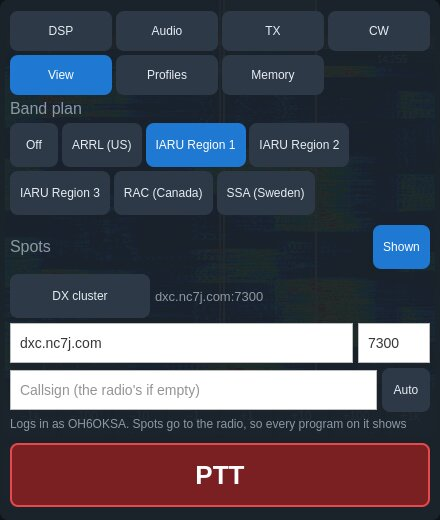
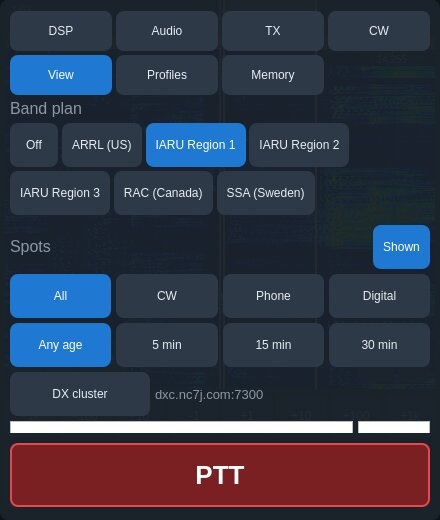
mobile: spot filters by mode and age
View > Spots: All, CW, Phone or Digital (the spot's mode, else its comment
or the band plan, through the desktop's SpotModeResolver), and any age or
the last 5, 15 or 30 minutes (the display refreshes as spots age out).
Checked on the FLEX with test spots among the cluster's: CW showed only
the "CW 599" spot, Phone the phone segment's calls. Dev option
--spot-filter modes,age.

Claude-Session: https://claude.ai/code/session_01KANojkzU64KoozGDbNDzRK

Changed region(s): [[0.0, 0.5231, 0.975, 0.8308]]

diff --git a/mobile/qml/DisplayControls.qml b/mobile/qml/DisplayControls.qml
@@ -45,6 +45,38 @@ ColumnLayout {
             onClicked: Engine.showSpots = !Engine.showSpots
         }
     }
+    // Which spots show: by mode and age.
+    RowLayout {
+        Layout.fillWidth: true
+        visible: Engine.showSpots
+        Repeater {
+            model: [{ key: "all", label: qsTr("All") }, { key: "cw", label: qsTr("CW") },
+                    { key: "phone", label: qsTr("Phone") }, { key: "digital", label: qsTr("Digital") }]
+            delegate: AppButton {
+                required property var modelData
+                text: modelData.label
+                checked: Engine.spotModes === modelData.key
+                Layout.fillWidth: true
+                Layout.preferredWidth: 1
+                onClicked: Engine.spotModes = modelData.key
+            }
+        }
+    }
+    RowLayout {
+        Layout.fillWidth: true
+        visible: Engine.showSpots
+        Repeater {
+            model: [0, 5, 15, 30]
+            delegate: AppButton {
+                required property int modelData
+                text: modelData === 0 ? qsTr("Any age") : qsTr("%1 min").arg(modelData)
+                checked: Engine.spotMaxAgeMin === modelData
+                Layout.fillWidth: true
+                Layout.preferredWidth: 1
+                onClicked: Engine.spotMaxAgeMin = modelData
+            }
+        }
+    }
     RowLayout {
         Layout.fillWidth: true
         AppButton {

diff --git a/mobile/src/MobileEngine.cpp b/mobile/src/MobileEngine.cpp
@@ -3227,6 +3227,14 @@ void MobileEngine::setupDxCluster()
     m_spotsNotifyTimer.setSingleShot(true);
     m_spotsNotifyTimer.setInterval(500);
     connect(&m_spotsNotifyTimer, &QTimer::timeout, this, &MobileEngine::spotsChanged);
+    // With an age limit, spots leave the display as they age.
+    m_spotsAgeTimer.setInterval(30000);
+    connect(&m_spotsAgeTimer, &QTimer::timeout, this, [this] {
+        if (spotMaxAgeMin() > 0 && showSpots()) {
+            emit spotsChanged();
+        }
+    });
+    m_spotsAgeTimer.start();
     SpotModel& spots = m_session.radioModel().spotModel();
     auto spotsMoved = [this] {
         if (!m_spotsNotifyTimer.isActive()) {
@@ -3287,7 +3295,24 @@ QVariantList MobileEngine::spots() const
     if (!m_connected || !showSpots()) {
         return out;
     }
+    const QString modes = spotModes();
+    const qint64 maxAgeMs = qint64(spotMaxAgeMin()) * 60 * 1000;
+    const qint64 now = QDateTime::currentMSecsSinceEpoch();
     for (const SpotData& s : m_session.radioModel().spotModel().spots()) {
+        if (maxAgeMs > 0 && s.addedMs > 0 && now - s.addedMs > maxAgeMs) {
+            continue;
+        }
+        if (modes != QLatin1String("all")) {
+            const QString mode = SpotModeResolver::resolveSpotRadioMode(s.mode, s.comment, s.rxFreqMhz);
+            const bool cw = mode.startsWith(QLatin1String("CW"));
+            const bool digital = mode.startsWith(QLatin1String("DIG")) || mode == QLatin1String("RTTY")
+                || mode == QLatin1String("FDV");
+            const bool phone = !mode.isEmpty() && !cw && !digital;
+            if ((modes == QLatin1String("cw") && !cw) || (modes == QLatin1String("digital") && !digital)
+                || (modes == QLatin1String("phone") && !phone)) {
+                continue;
+            }
+        }
         out << QVariantMap{{QStringLiteral("index"), s.index}, {QStringLiteral("call"), s.callsign},
                            {QStringLiteral("freq"), s.rxFreqMhz}, {QStringLiteral("mode"), s.mode},
                            {QStringLiteral("comment"), s.comment}, {QStringLiteral("spotter"), s.spotterCallsign},
@@ -3306,6 +3331,37 @@ void MobileEngine::setShowSpots(bool on)
 {
     if (on != showSpots()) {
         AppSettings::instance().setValue(QStringLiteral("MobileShowSpots"), on ? QStringLiteral("True") : QStringLiteral("False"));
+        AppSettings::instance().save();
+        emit spotsChanged();
+    }
+}
+
+QString MobileEngine::spotModes() const
+{
+    const QString m = AppSettings::instance().value(QStringLiteral("MobileSpotModes"), QStringLiteral("all")).toString();
+    return (m == QLatin1String("cw") || m == QLatin1String("phone") || m == QLatin1String("digital")) ? m
+                                                                                                      : QStringLiteral("all");
+}
+
+void MobileEngine::setSpotModes(const QString& modes)
+{
+    if (modes != spotModes()) {
+        AppSettings::instance().setValue(QStringLiteral("MobileSpotModes"), modes);
+        AppSettings::instance().save();
+        emit spotsChanged();
+    }
+}
+
+int MobileEngine::spotMaxAgeMin() const
+{
+    return std::clamp(AppSettings::instance().value(QStringLiteral("MobileSpotMaxAgeMin"), 0).toInt(), 0, 240);
+}
+
+void MobileEngine::setSpotMaxAgeMin(int minutes)
+{
+    minutes = std::clamp(minutes, 0, 240);
+    if (minutes != spotMaxAgeMin()) {
+        AppSettings::instance().setValue(QStringLiteral("MobileSpotMaxAgeMin"), minutes);
         AppSettings::instance().save();
         emit spotsChanged();
     }

diff --git a/mobile/src/MobileEngine.h b/mobile/src/MobileEngine.h
@@ -154,6 +154,11 @@ class MobileEngine : public QObject {
     // color, source}; empty while showSpots is off.
     Q_PROPERTY(QVariantList spots READ spots NOTIFY spotsChanged)
     Q_PROPERTY(bool showSpots READ showSpots WRITE setShowSpots NOTIFY spotsChanged)
+    // Spot filters (remembered): modes "all", "cw", "phone" or "digital"
+    // (the spot's mode, else its comment or the band plan, as the desktop
+    // resolves it) and the newest only, 0 (any) or 5/15/30 minutes.
+    Q_PROPERTY(QString spotModes READ spotModes WRITE setSpotModes NOTIFY spotsChanged)
+    Q_PROPERTY(int spotMaxAgeMin READ spotMaxAgeMin WRITE setSpotMaxAgeMin NOTIFY spotsChanged)
     // DX cluster: {host, port, callsign (the radio's when not set),
     // callsignFromRadio, autoConnect, state off/connecting/connected, error}.
     Q_PROPERTY(QVariantMap dxCluster READ dxCluster NOTIFY dxClusterChanged)
@@ -514,6 +519,10 @@ public:
     QVariantList spots() const;
     bool showSpots() const;
     void setShowSpots(bool on);
+    QString spotModes() const;
+    void setSpotModes(const QString& modes);
+    int spotMaxAgeMin() const;
+    void setSpotMaxAgeMin(int minutes);
     QVariantMap dxCluster() const;
     // key: host, port, callsign or autoConnect.
     Q_INVOKABLE void setDxCluster(const QString& key, const QVariant& value);
@@ -989,6 +998,7 @@ private:
     QStringList m_dxQueue;
     QTimer m_dxSendTimer;
     QTimer m_spotsNotifyTimer;   // at most two spot list updates a second
+    QTimer m_spotsAgeTimer;      // spots age out of the age filter
     void setupDxCluster();
     QString dxCallsign() const;
     QTimer m_voicePreviewTimer;

diff --git a/mobile/src/main.cpp b/mobile/src/main.cpp
@@ -170,6 +170,9 @@ int main(int argc, char* argv[])
         QStringLiteral("Development, receive only: set the filter to <low>,<high> Hz, log the radio's edges, then "
                        "put the old ones back."), QStringLiteral("low,high"));
     parser.addOption(filterEdgesOption);
+    const QCommandLineOption spotFilterOption(QStringLiteral("spot-filter"),
+        QStringLiteral("Spot filter <modes>,<max age min>, e.g. cw,0 (remembered)."), QStringLiteral("filter"));
+    parser.addOption(spotFilterOption);
     const QCommandLineOption setModeOption(QStringLiteral("set-mode"),
         QStringLiteral("Development: set this app's slice to <mode> on a real radio once connected "
                        "(--mode touches only the demo)."), QStringLiteral("mode"));
@@ -576,6 +579,11 @@ int main(int argc, char* argv[])
         QTimer::singleShot(13000, &app, [&engine] {
             qInfo() << "filter-edges-test: restored" << engine.filterLow() << engine.filterHigh();
         });
+    }
+    if (parser.isSet(spotFilterOption)) {
+        const QStringList f = parser.value(spotFilterOption).split(QLatin1Char(','));
+        engine.setSpotModes(f.value(0, QStringLiteral("all")));
+        engine.setSpotMaxAgeMin(f.value(1, QStringLiteral("0")).toInt());
     }
     if (parser.isSet(setModeOption)) {
         const QString mode = parser.value(setModeOption);

diff --git a/docs/mobile/MANUAL.md b/docs/mobile/MANUAL.md
@@ -430,6 +430,10 @@ them back into the drawer.
 - **View** — band plan, **Spots** (shown or hidden) and the **DX cluster**,
   2D waterfall or 3D, waterfall levels, spectrum range, 3D floor, smoothing
   and gain.
+  - **Spot filters** — which spots show: *All*, *CW*, *Phone* or *Digital*
+    (by the spot's mode, else its comment or the band plan, as on the
+    desktop), and *Any age* or only those from the last 5, 15 or 30
+    minutes.
   - **DX cluster** — tap to connect, again to disconnect. Set the server and
     port (default dxc.nc7j.com 7300) and the callsign it logs in with (the
     radio's own when left empty); **Auto** connects whenever the radio

diff --git a/mobile/ROADMAP.md b/mobile/ROADMAP.md
@@ -10,6 +10,8 @@ Queued (not yet sent to TestFlight):
 - CW paddles on the screen with the app's iambic keyer (A/B, squeeze; [ ] or Ctrl L/R on a keyboard); checked on air at 10 W.
 - CW decoder: Sens filter (default 70) and 8-45 WPM; band noise mostly gone, weak calls decode (measured on 20 m).
 - Filter edges dragged on the display (10 Hz steps); notches dragged along the spectrum.
+- Spot filters: mode (CW, phone, digital) and age (5/15/30 min).
+- Network changes in the log (after a SmartLink drop in the background on Android: both links closed at once, back in 13 s).
 
 Open from tester feedback: SmartLink sign-in not kept for one tester (log
 needed).
